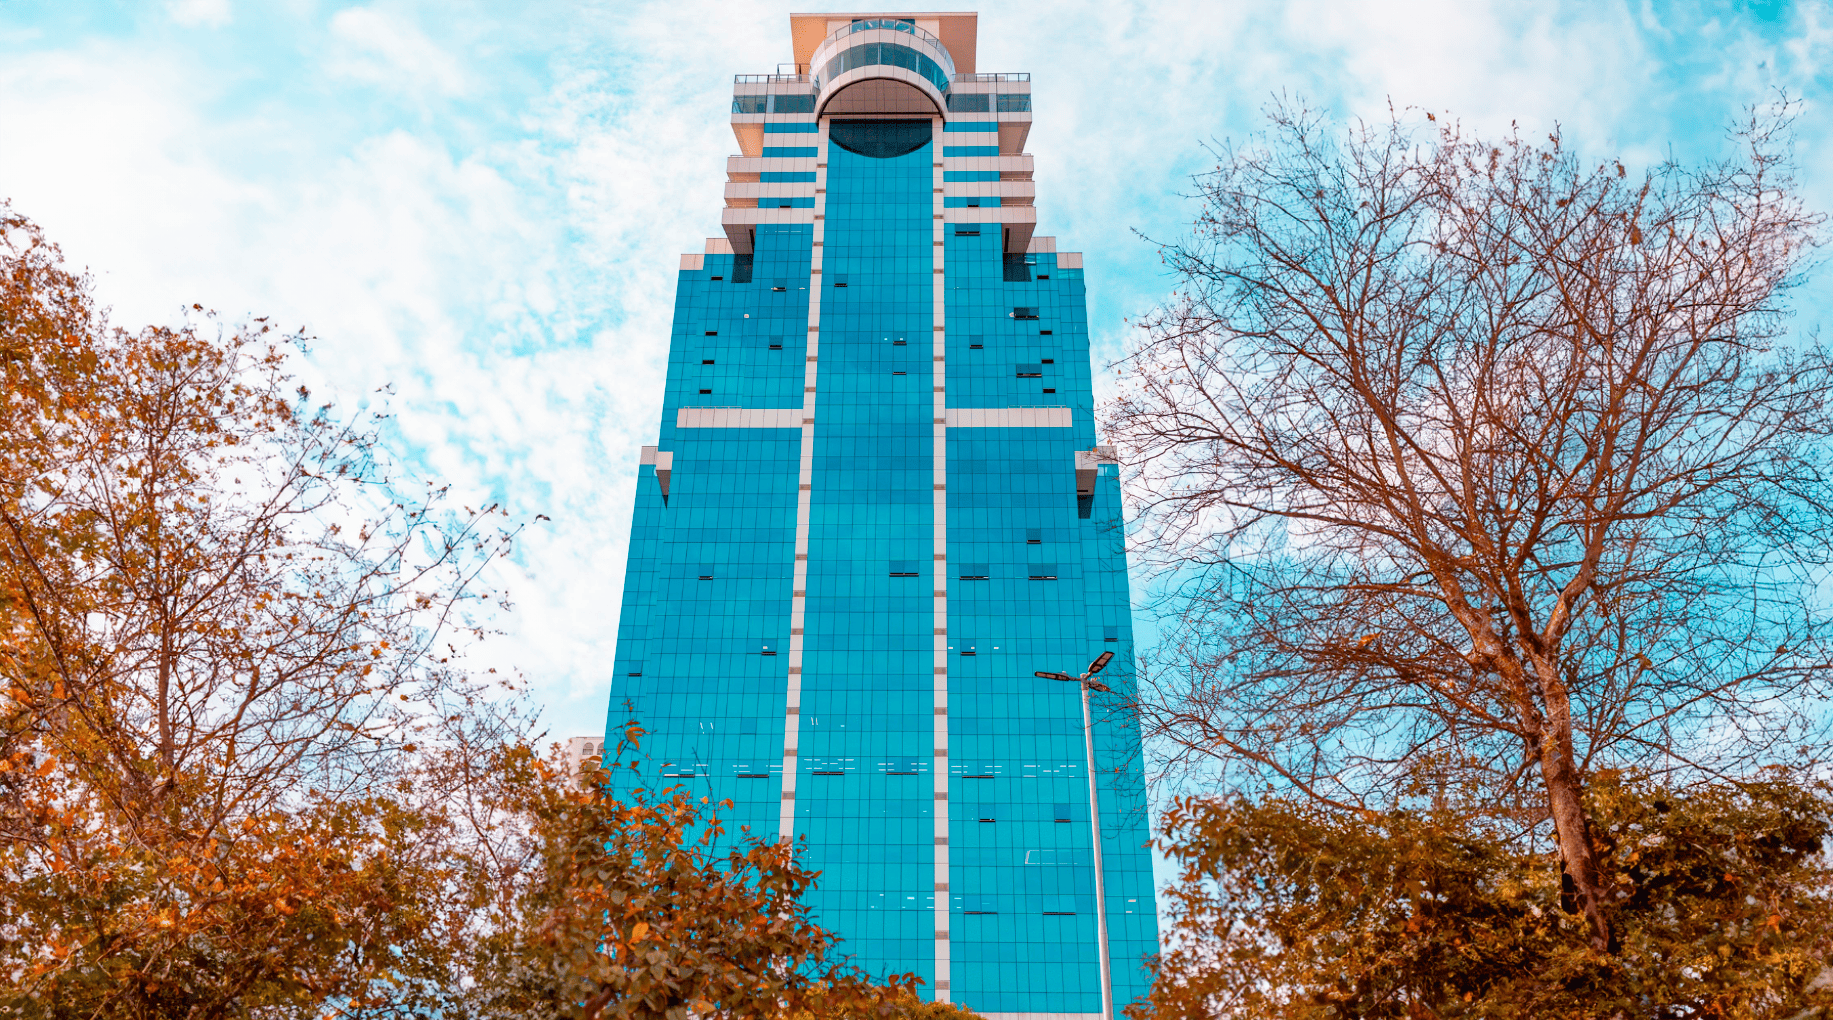
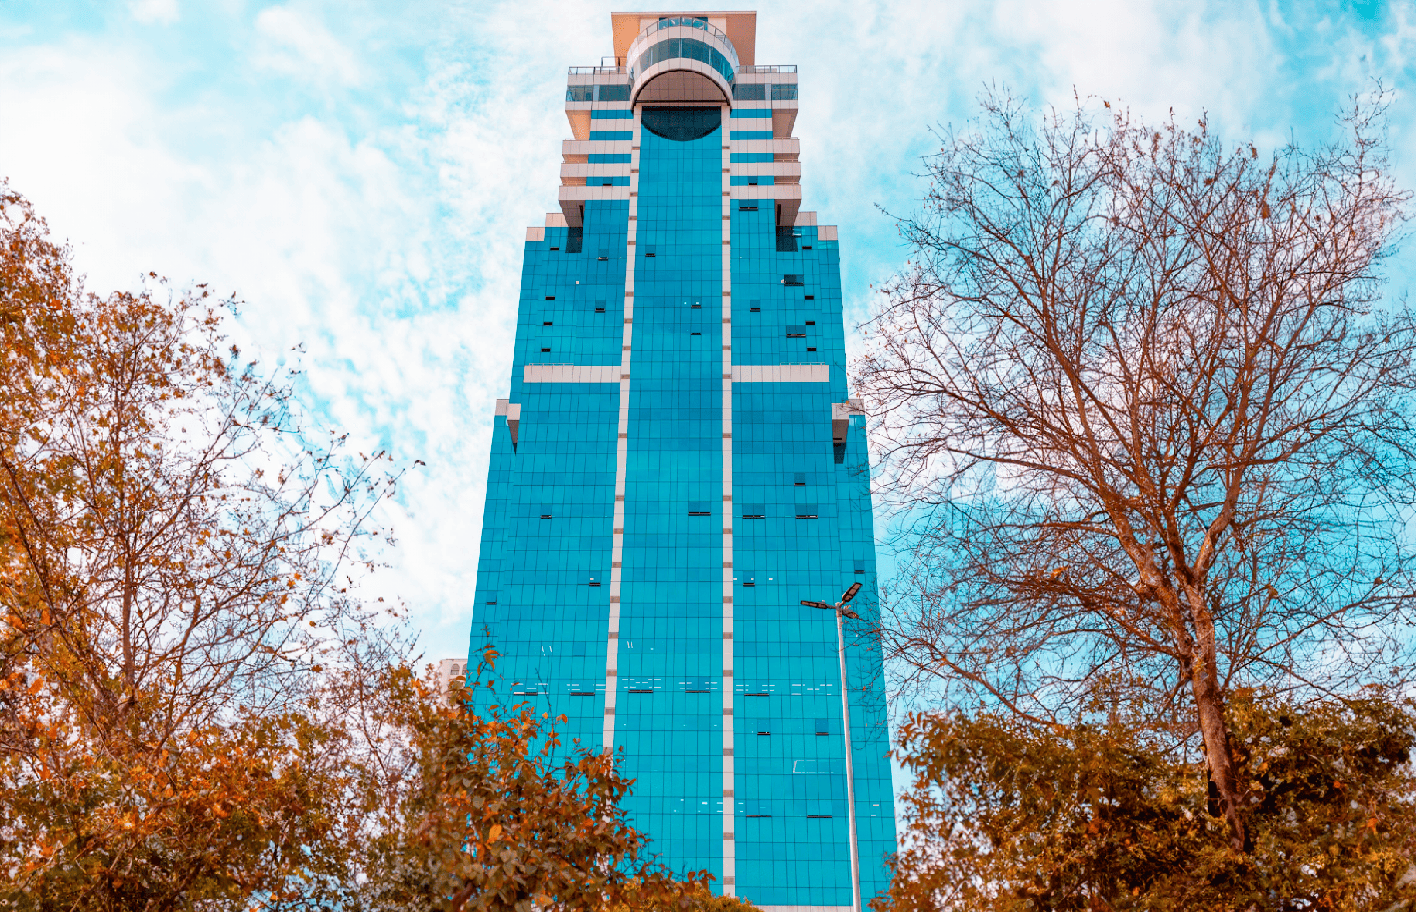
att space1 size

diff --git a/src/App.jsx b/src/App.jsx
@@ -387,8 +387,8 @@ export default function Main() {
                 key={i}
                 src={src}
                 className="
-          object-cover rounded
-          w-[80%] h-64
+          object-contain rounded
+          w-64 h-auto
         "
               />
             ))}
